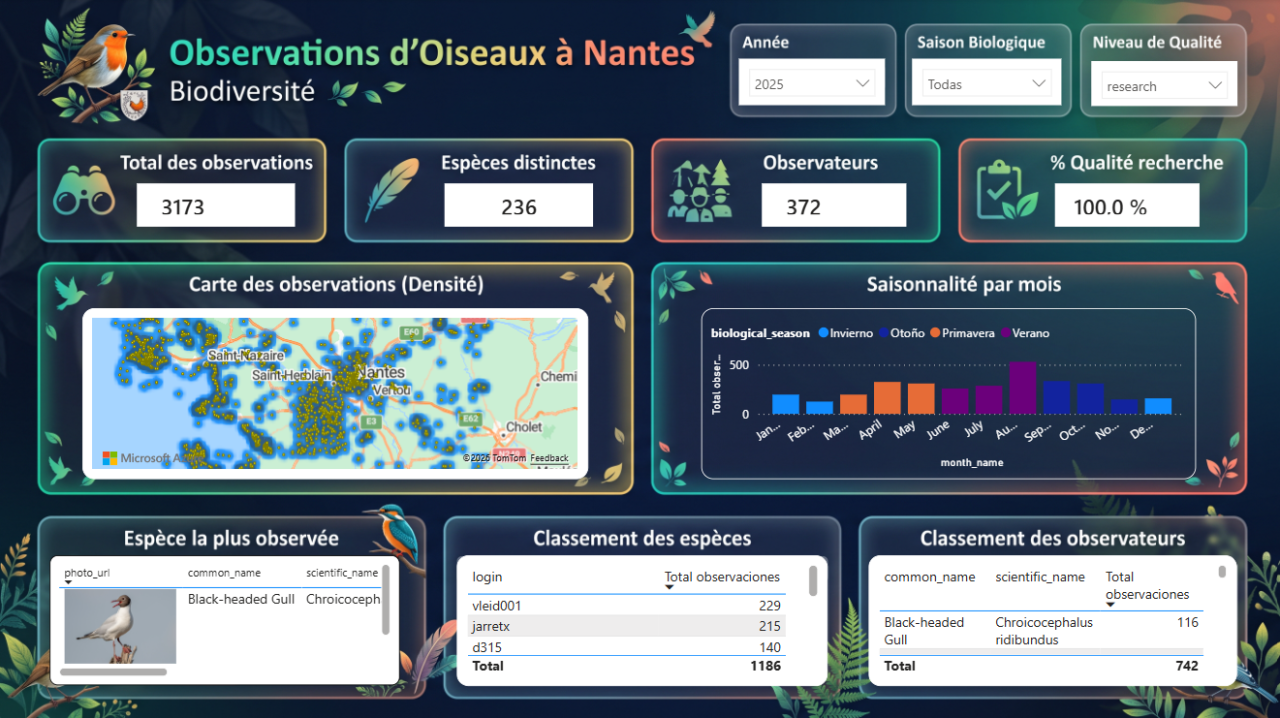
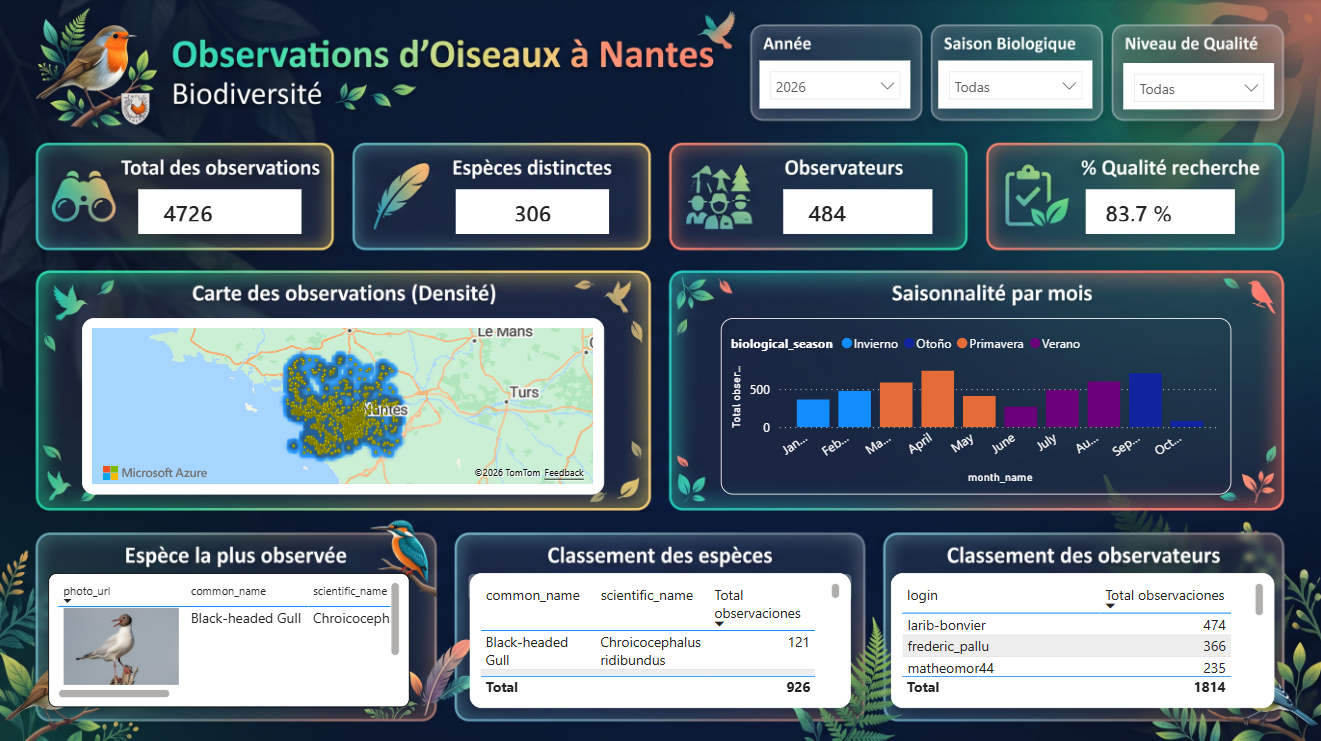
Captura del dashboard con los títulos de los rankings corregidos

diff --git a/README.fr.md b/README.fr.md
@@ -15,7 +15,7 @@ privilège, pour un coût d'exploitation quasi nul.
 
 ![Rapport Power BI : KPI, carte de densité, saisonnalité et espèce la plus observée avec photo](docs/images/powerbi-dashboard.png)
 
-*Rapport Power BI sur le schéma en étoile (filtré sur 2025, qualité recherche).*
+*Rapport Power BI sur le schéma en étoile (année 2026, toutes saisons et tous niveaux de qualité).*
 
 ## En chiffres
 

diff --git a/README.es.md b/README.es.md
@@ -15,7 +15,7 @@ privilegio, con un coste operativo casi nulo.
 
 ![Informe de Power BI: KPIs, mapa de densidad, estacionalidad y especie más observada con foto](docs/images/powerbi-dashboard.png)
 
-*Informe de Power BI sobre el modelo estrella (filtrado a 2025 y grado de investigación).*
+*Informe de Power BI sobre el modelo estrella (año 2026, todas las estaciones y grados de calidad).*
 
 ## En cifras
 

diff --git a/README.md b/README.md
@@ -14,7 +14,7 @@ near-zero running cost.
 
 ![Power BI report: KPIs, density map, seasonality and top species with photo](docs/images/powerbi-dashboard.png)
 
-*Power BI report on the star schema (filtered to 2025, research grade).*
+*Power BI report on the star schema (filtered to 2026, all seasons and quality grades).*
 
 ## Highlights
 
